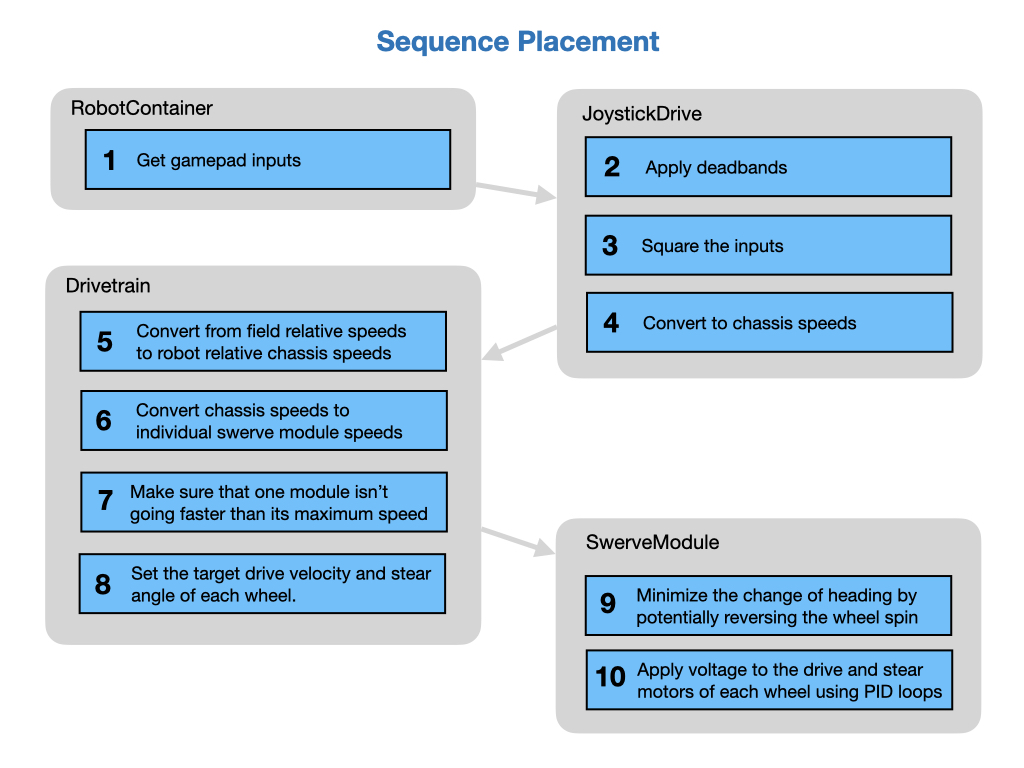
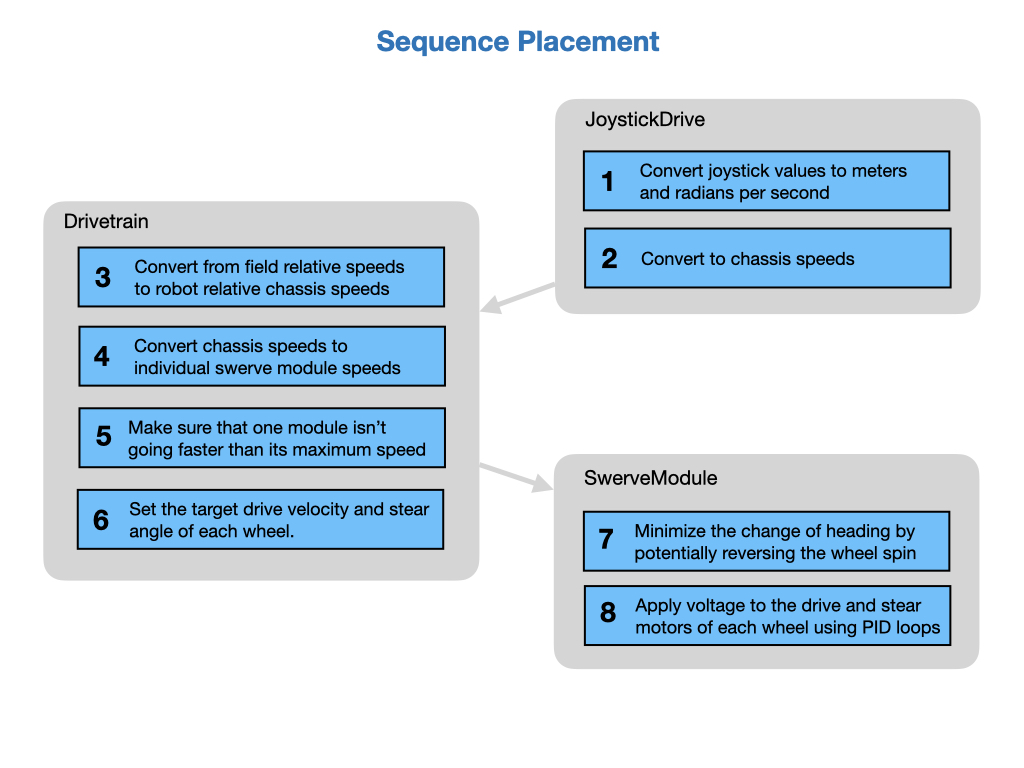
swerve updates

diff --git a/docs/RoboRIO/swervedrive.md b/docs/RoboRIO/swervedrive.md
@@ -57,6 +57,38 @@ The decision on where to place each of these steps is left up to the implementer
 
 ![Sequence Placement](../images/SwerveDrive/SwerveDrive.007.jpeg)
 
+### 1. Convert Joystick Input
+Converts joystick input to a magnitude of the desired velocity.  This is a unitless value between `-1` and `1` and will be converted to meters per/sec which the *ChassisSpeeds* object requires.
+
+The unitless direction magnitude value computed from the previous step are converted to `velocity meters per second` by multiplying by the maximum speed of the motors.
+
+![Joystick Conversions](../images/SwerveDrive/SwerveDrive.008.jpeg)
+
+### 2. Create *ChassisSpeeds* Object
+The *ChassisSpeeds* object tracks the lateral and turn velocity of the robot.  We'll use it to convert from the **Game Field** relative heading to the **Robot** relative heading in the next step.   Here's an overview picture of what the *ChassisSpeeds* object expects and it functions.
+
+![Chassis Speeds](../images/FRCKinematics&Odometry/FRCKinematics&Odometry.015.jpeg) 
+
+### 3. Convert to Field Relative Speeds
+Converts a user provided field-relative ChassisSpeeds object into a robot-relative ChassisSpeeds object. The ChassisSpeeds object representing the speeds in the **Game Field** frame of reference. Positive x is away from your alliance wall. Positive y is to your left when standing behind the alliance wall.
+
+ The angle of the robot as measured by a gyroscope. The robot's angle is considered to be zero when it is facing directly away from your alliance station wall.
+
+ ![Field Relative Speeds](../images/SwerveDrive/SwerveDrive.010.jpeg)
+
+### 4. Convert to Module Speeds and Angle
+
+### 5. Desaturate Wheel Speeds
+
+### 6. Apply New States
+
+### 7. Optimize Wheel Speeds
+
+### 8. Apply Power
+There are two ways to apply power.  PID in program or Closed loop control in the motors.
+
+![Control Modes](../images/FRCroboRIO/FRCroboRIO.011.jpeg)
+
 ## Drivetrain Class
 The drivetrain requires an object for each of the four swerve modules.  There needs to be a way to translate the required speed and direction of the drivetrain chassis into the individual speed and direction of each of the four wheel modules.  This is the job of the *SwerveDriveKinematics* class, which takes in the locations of the wheels relative to the physical center of the robot in order to compute the required control input for each wheel. These control inputs tell the wheel how fast it should be going and what angle it should be at.
 

diff --git a/docs/RoboRIO/Choreo.md b/docs/RoboRIO/Choreo.md
@@ -1,16 +1,14 @@
 # Choreo
+To use the Choreo API ensure that you have the Choreo vendor library installed. Go to *Manage Vendor Libraries (online)* and use
+`https://sleipnirgroup.github.io/ChoreoLib/dep/ChoreoLib.json`
 
-## RobotContainer
+To use a generated trajectory file in the project follow the Choreo [usage example](https://sleipnirgroup.github.io/Choreo/choreolib/usage/).  This creates a swerve command for the robot to follow the trajectory.
 
-    import com.choreo.lib.Choreo;
-    import com.choreo.lib.ChoreoTrajectory;
+    
 
-Create the trajectory object.
+## References
 
-    ChoreoTrajectory traj;
+- [Choreo Releases](https://github.com/SleipnirGroup/Choreo/releases)
 
-In the constructor.
-
-    traj = Choreo.getTrajectory("Trajectory");
-
+- [Choreo Documentation](https://sleipnirgroup.github.io/Choreo/)
     
